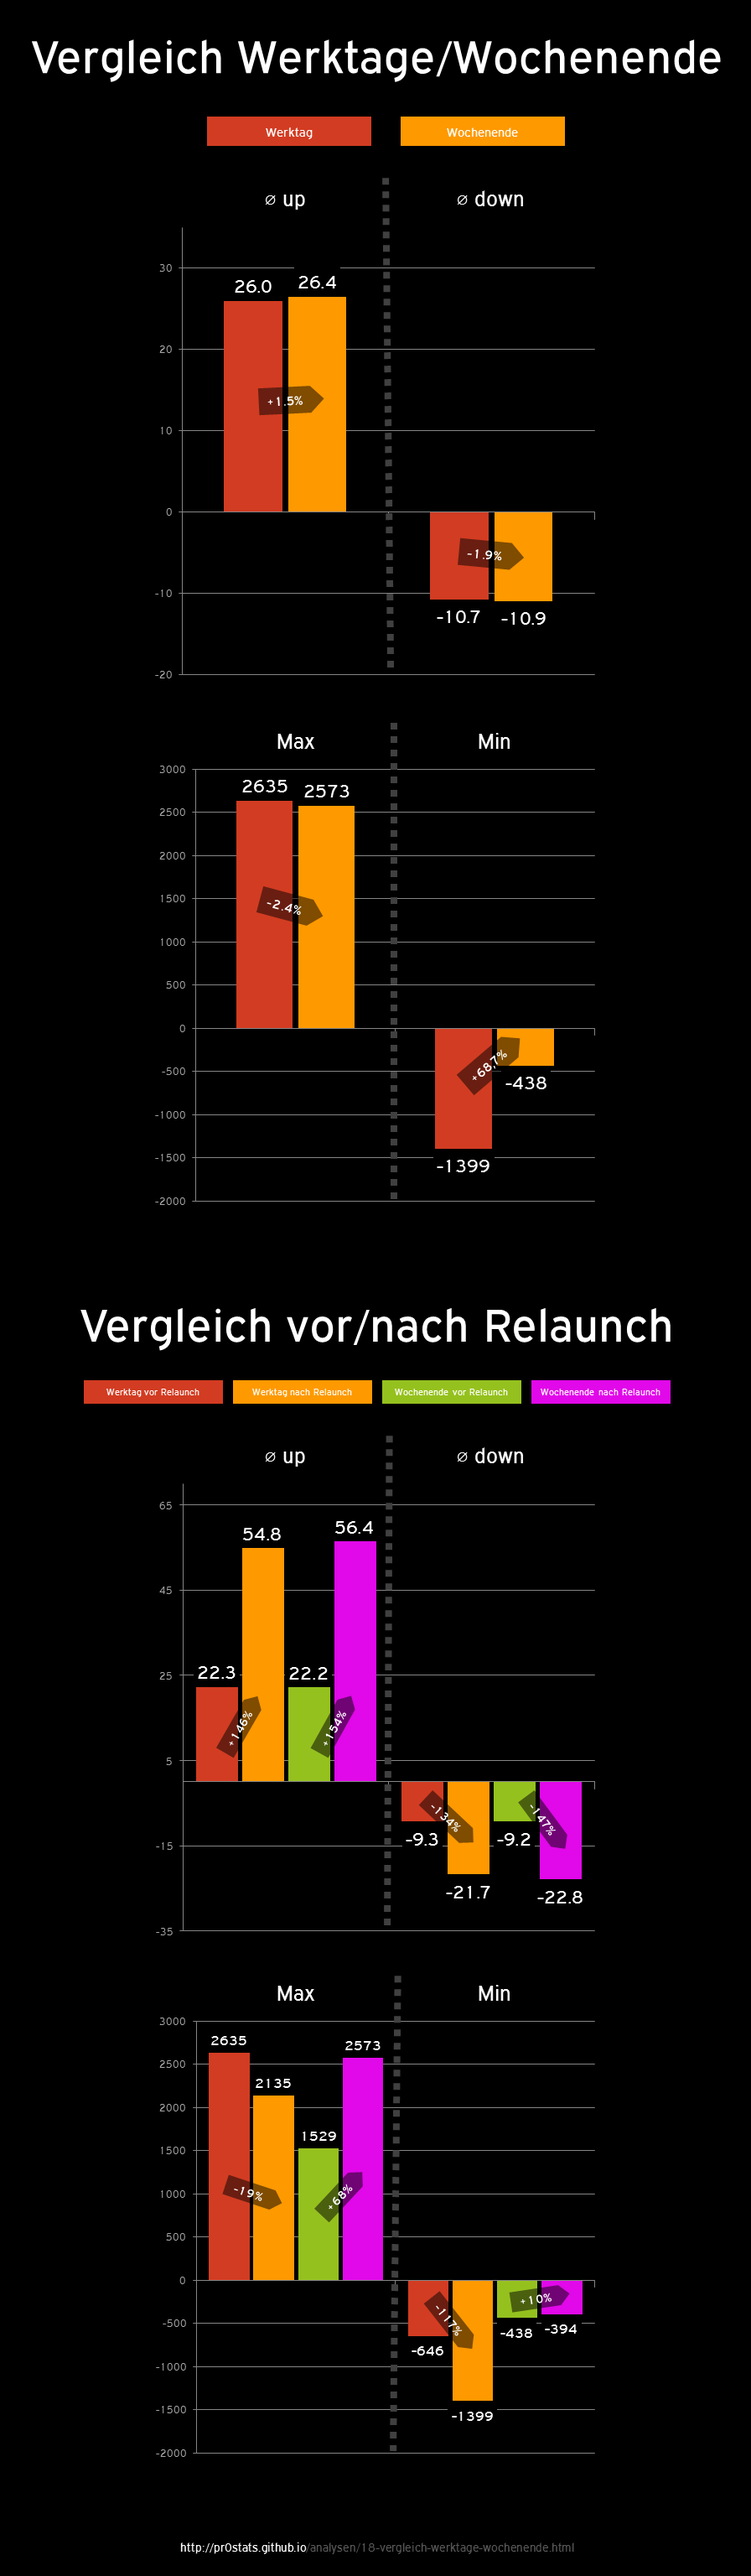
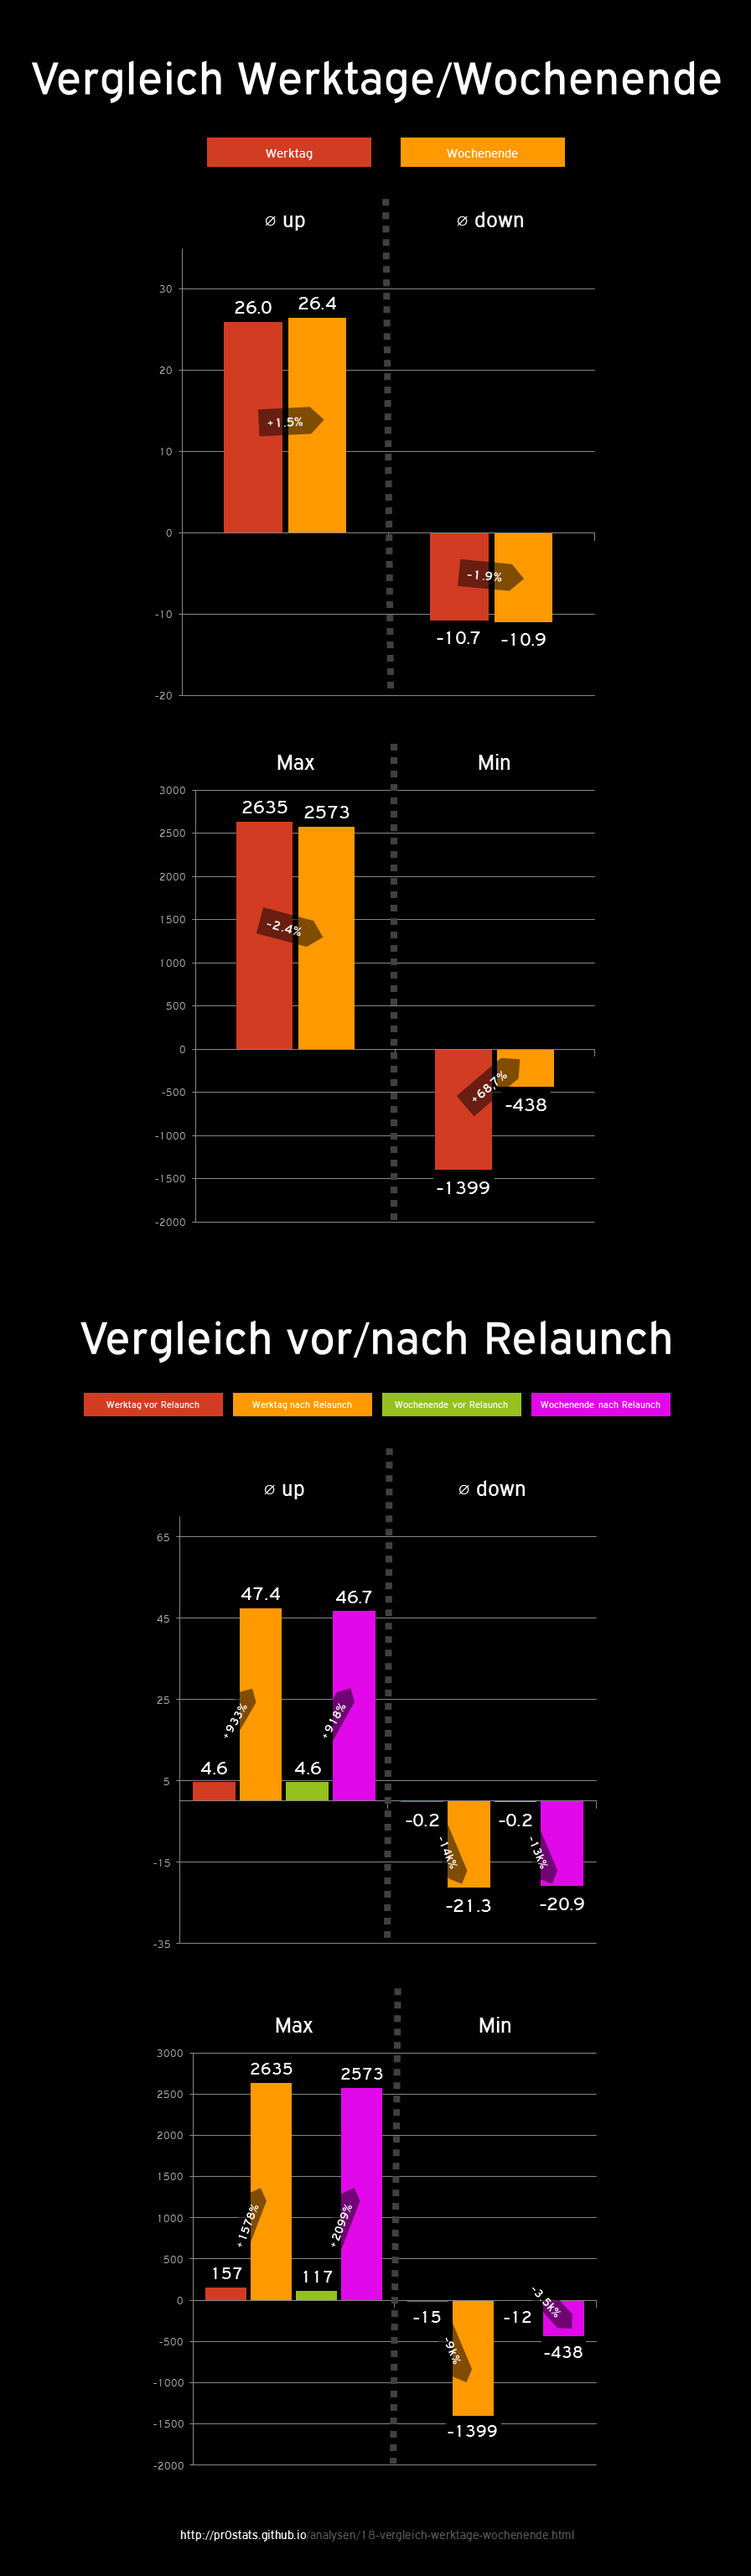
Fix analysis fault on #18

diff --git a/analysen/18-vergleich-werktage-wochenende.html b/analysen/18-vergleich-werktage-wochenende.html
@@ -34,10 +34,10 @@
 			<li>Zeitraum <code>01/2007</code> bis <code>07/2014</code></li>
 			<li>Werktage<br><code class="block">SELECT AVG(`up`), AVG(`down`), MAX(`up`), MAX(`down`) FROM `pr0stats` WHERE WEEKDAY(FROM_UNIXTIME(`created`)) &lt; 5</code></li>
 			<li>Wochenende<br><code class="block">SELECT AVG(`up`), AVG(`down`), MAX(`up`), MAX(`down`) FROM `pr0stats` WHERE WEEKDAY(FROM_UNIXTIME(`created`)) &gt;= 5</code></li>
-			<li>Werktage vor Relaunch<br><code class="block">SELECT AVG(`up`), AVG(`down`), MAX(`up`), MAX(`down`) FROM `pr0stats` WHERE WEEKDAY(FROM_UNIXTIME(`created`)) &lt; 5 AND FROM_UNIXTIME(`created`) &lt; '2014-07-17 14:59'</code></li>
-			<li>Werktage nach Relaunch<br><code class="block">SELECT AVG(`up`), AVG(`down`), MAX(`up`), MAX(`down`) FROM `pr0stats` WHERE WEEKDAY(FROM_UNIXTIME(`created`)) &lt; 5 AND FROM_UNIXTIME(`created`) &gt;= '2014-07-17 14:59'</code></li>
-			<li>Wochenende vor Relaunch<br><code class="block">SELECT AVG(`up`), AVG(`down`), MAX(`up`), MAX(`down`) FROM `pr0stats` WHERE WEEKDAY(FROM_UNIXTIME(`created`)) &gt;= 5 AND FROM_UNIXTIME(`created`) &lt; '2014-07-17 14:59'</code></li>
-			<li>Wochenende nach Relaunch<br><code class="block">SELECT AVG(`up`), AVG(`down`), MAX(`up`), MAX(`down`) FROM `pr0stats` WHERE WEEKDAY(FROM_UNIXTIME(`created`)) &gt;= 5 AND FROM_UNIXTIME(`created`) &gt;= '2014-07-17 14:59'</code></li>
+			<li>Werktage vor Relaunch<br><code class="block">SELECT AVG(`up`), AVG(`down`), MAX(`up`), MAX(`down`) FROM `pr0stats` WHERE WEEKDAY(FROM_UNIXTIME(`created`)) &lt; 5 AND FROM_UNIXTIME(`created`) &lt; '2014-05-03 14:59'</code></li>
+			<li>Werktage nach Relaunch<br><code class="block">SELECT AVG(`up`), AVG(`down`), MAX(`up`), MAX(`down`) FROM `pr0stats` WHERE WEEKDAY(FROM_UNIXTIME(`created`)) &lt; 5 AND FROM_UNIXTIME(`created`) &gt;= '2014-05-03 14:59'</code></li>
+			<li>Wochenende vor Relaunch<br><code class="block">SELECT AVG(`up`), AVG(`down`), MAX(`up`), MAX(`down`) FROM `pr0stats` WHERE WEEKDAY(FROM_UNIXTIME(`created`)) &gt;= 5 AND FROM_UNIXTIME(`created`) &lt; '2014-05-03 14:59'</code></li>
+			<li>Wochenende nach Relaunch<br><code class="block">SELECT AVG(`up`), AVG(`down`), MAX(`up`), MAX(`down`) FROM `pr0stats` WHERE WEEKDAY(FROM_UNIXTIME(`created`)) &gt;= 5 AND FROM_UNIXTIME(`created`) &gt;= '2014-05-03 14:59'</code></li>
 
 		</ul>
 		
